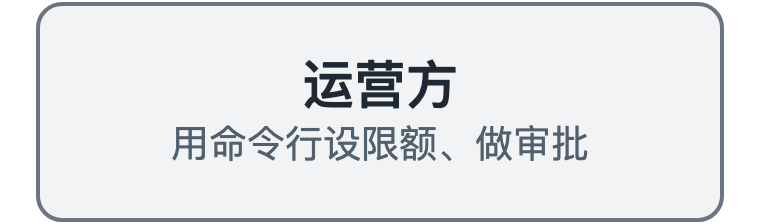
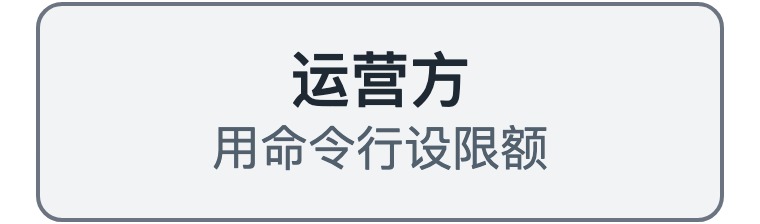
Enlarge the architecture diagram's text

Changed region(s): [[0.2118, 0.5625, 0.7868, 0.7812], [0.3632, 0.2188, 0.6355, 0.5]]

diff --git a/docs/images/build.py b/docs/images/build.py
@@ -152,7 +152,7 @@ ZH = {
     'Early, with more to come.': '刚开始，后续继续测。',
     'your code, with its own key': '你的代码，用自己的密钥',
     'Operator': '运营方',
-    'sets limits, approves by CLI': '用命令行设限额、做审批',
+    'sets limits by CLI': '用命令行设限额',
     'one process that keeps the provider keys': '一个进程，保管供应商密钥',
     'Postgres': 'Postgres',
     'holds all the state': '存放全部状态',
@@ -166,11 +166,11 @@ ZH = {
     'Models': '模型',
     'proxy the call': '转发调用',
     'Tools': '工具',
-    'check, call, screen the result': '检查、调用、筛查结果',
+    'check, then screen': '检查后筛查结果',
     'Payments': '支付',
     'wallet signs if approved': '批准后钱包才签名',
     'Model providers': '模型供应商',
-    'OpenRouter, OpenAI and others': 'OpenRouter、OpenAI 等',
+    'OpenRouter, OpenAI…': 'OpenRouter、OpenAI…',
     'MCP tools': 'MCP 工具',
     'services run by others': '别人运行的服务',
     'Blockchain': '区块链',
@@ -183,17 +183,18 @@ class D:
     def __init__(self, name, w, h):
         self.name, self.w, self.h, self.o = name, w, h, []
 
-    def box(self, x, y, w, h, title="", sub="", c="blue", size=T, dash=False):
+    def box(self, x, y, w, h, title="", sub="", c="blue", size=T, dash=False, sub_size=None):
         f, s = COL[c]
         d = ' stroke-dasharray="8 6"' if dash else ""
         self.o.append(f'<rect x="{x}" y="{y}" width="{w}" height="{h}" rx="12" fill="{f}" stroke="{s}" stroke-width="2"{d}/>')
         lines = sub.split("\n") if sub else []
-        total = (size if title else -8) + len(lines) * (S + 8)
-        ty = y + (h - total) / 2 + (size * 0.85 if title else -S * 0.15 - 8)
+        sz = sub_size or S
+        total = (size if title else -8) + len(lines) * (sz + 8)
+        ty = y + (h - total) / 2 + (size * 0.85 if title else -sz * 0.15 - 8)
         if title:
             self.text(x + w / 2, ty, title, size, INK, True)
         for i, l in enumerate(lines):
-            self.text(x + w / 2, ty + (i + 1) * (S + 8), l, S, MUTED)
+            self.text(x + w / 2, ty + (i + 1) * (sz + 8), l, sz, MUTED)
 
     def group(self, x, y, w, h, label, c="gray"):
         f, s = COL[c]
@@ -364,7 +365,7 @@ def architecture():
     # Columns are 380 wide. Tiles carry their own margins, so they line up.
     def tile(name, w, h, title, sub, c):
         d = D(f"arch-{name}", w, h)
-        d.box(19, 2, w - 38, h - 4, title, sub, c, size=26)
+        d.box(19, 2, w - 38, h - 4, title, sub, c, size=30, sub_size=24)
         return d
 
     def bar(d, y, x1, x2):
@@ -375,7 +376,7 @@ def architecture():
 
     H, cols = 112, (190, 570, 950)
     tile("agent", 760, H, "Agent", "your code, with its own key", "blue").write()
-    tile("operator", 380, H, "Operator", "sets limits, approves by CLI", "gray").write()
+    tile("operator", 380, H, "Operator", "sets limits by CLI", "gray").write()
 
     d = D("arch-down", 1140, 40)
     d.arrow(380, 2, 380, 38)
@@ -389,28 +390,28 @@ def architecture():
     d.arrow(0, H / 2, 19, H / 2)
     d.write()
 
-    d = D("arch-split", 1140, 70)
-    stub(d, 380, 2, 32)
-    bar(d, 32, cols[0], cols[2])
+    d = D("arch-split", 1140, 74)
+    stub(d, 380, 2, 36)
+    bar(d, 36, cols[0], cols[2])
     for x in cols:
-        d.arrow(x, 32, x, 68)
-    d.text(665, 22, "Every request passes all three", S, MUTED)
+        d.arrow(x, 36, x, 72)
+    d.text(665, 26, "Every request passes all three", 24, MUTED)
     d.write()
 
     tile("policy", 380, H, "Policy", "may it do this?", "amber").write()
     tile("ledger", 380, H, "Ledger", "hold, then charge", "amber").write()
     tile("runs", 380, H, "Runs", "record every step", "amber").write()
 
-    d = D("arch-merge", 1140, 70)
+    d = D("arch-merge", 1140, 74)
     for x in cols:
-        stub(d, x, 2, 32)
-        d.arrow(x, 32, x, 68)
-    bar(d, 32, cols[0], cols[2])
-    d.text(380, 22, "Then it takes one of three paths", S, MUTED)
+        stub(d, x, 2, 36)
+        d.arrow(x, 36, x, 72)
+    bar(d, 36, cols[0], cols[2])
+    d.text(380, 26, "Then it takes one of three paths", 24, MUTED)
     d.write()
 
     tile("models", 380, H, "Models", "proxy the call", "green").write()
-    tile("tools", 380, H, "Tools", "check, call, screen the result", "green").write()
+    tile("tools", 380, H, "Tools", "check, then screen", "green").write()
     tile("payments", 380, H, "Payments", "wallet signs if approved", "green").write()
 
     d = D("arch-out", 1140, 40)
@@ -418,7 +419,7 @@ def architecture():
         d.arrow(x, 2, x, 38)
     d.write()
 
-    tile("providers", 380, H, "Model providers", "OpenRouter, OpenAI and others", "white").write()
+    tile("providers", 380, H, "Model providers", "OpenRouter, OpenAI…", "white").write()
     tile("mcp", 380, H, "MCP tools", "services run by others", "white").write()
     tile("chain", 380, H, "Blockchain", "the tool cashes, we verify", "white").write()
 
